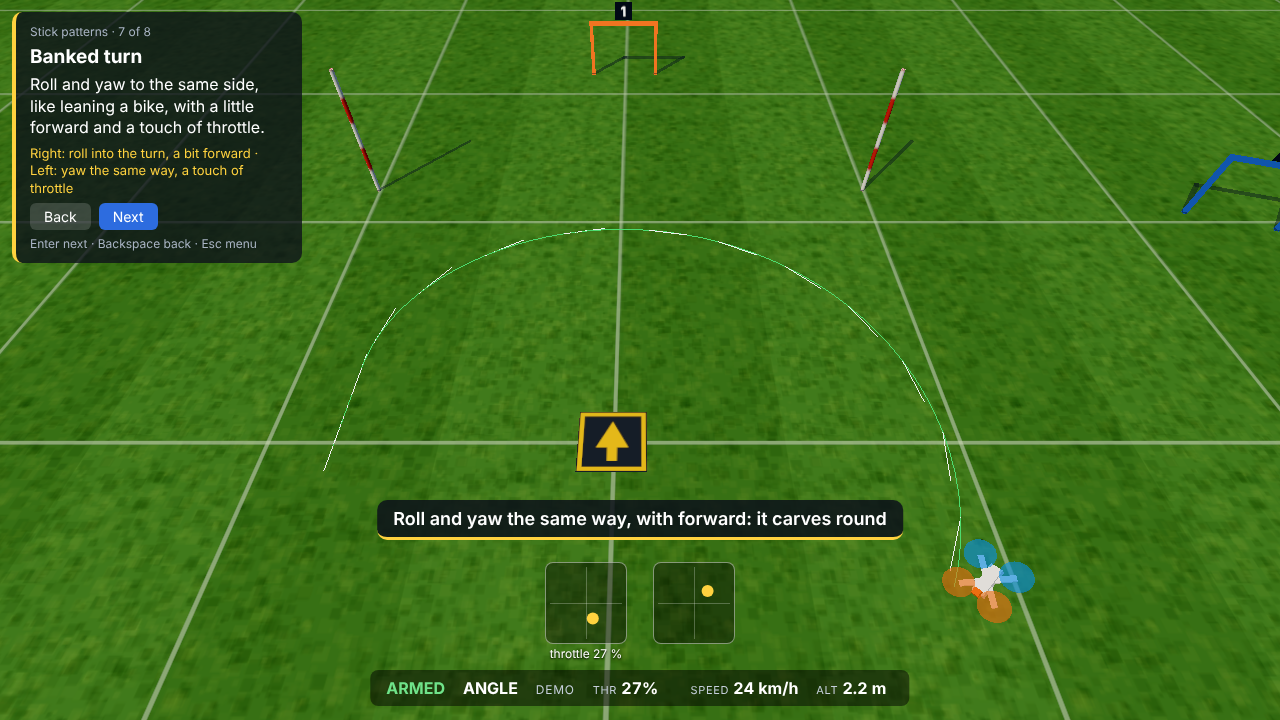
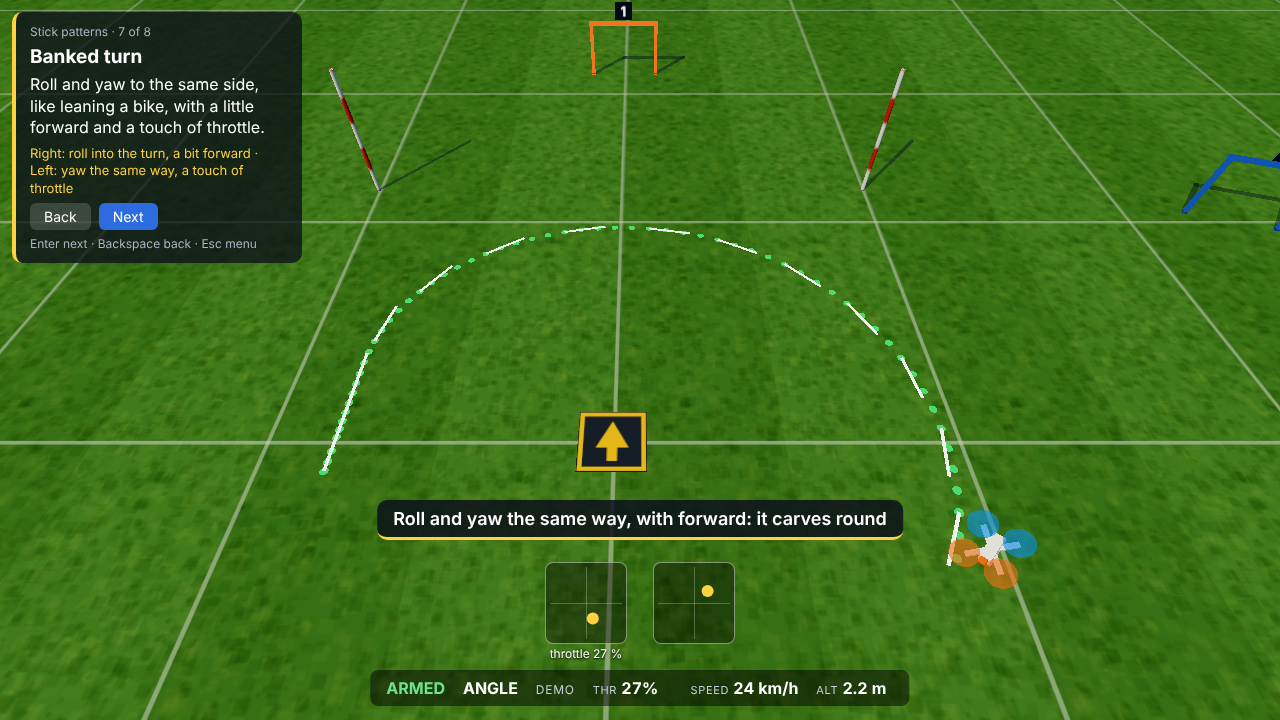
M10d: trail as flat dots and nose bars; M10d block passes (11 checks), proof/M10d/100 and 102

diff --git a/src/main.js b/src/main.js
@@ -489,39 +489,39 @@ scene.add(demoMarks);
 const tagsEl = document.getElementById('tags'), holdEl = document.getElementById('hold');
 const tagPool = [], _tv = new THREE.Vector3(), _tq = new THREE.Quaternion();
 let tagsShown = [];
-// Demo trail (def.trail): the ground track of the quad as a line, plus a short nose line every 0.4 s, so a still picture
+// Demo trail (def.trail): the ground track of the quad as a dotted line, plus a short nose line every 0.4 s, so a still picture
 // shows where it went and where it pointed (a banked turn carves; yaw without roll turns the nose while the track runs on).
-const TRAIL_N = 1500, NOSE_N = 60, NOSE_LEN = 1.6;
-const trailGeo = new THREE.BufferGeometry(), noseGeo = new THREE.BufferGeometry();
-trailGeo.setAttribute('position', new THREE.BufferAttribute(new Float32Array(TRAIL_N * 3), 3));
-noseGeo.setAttribute('position', new THREE.BufferAttribute(new Float32Array(NOSE_N * 6), 3));
-const trailMat = new THREE.LineBasicMaterial({ color: 0x5ee07a }), noseMat = new THREE.LineBasicMaterial({ color: 0xffffff });
-const trailLine = new THREE.Line(trailGeo, trailMat), noseLines = new THREE.LineSegments(noseGeo, noseMat);
+// Drawn as flat ground meshes (WebGL lines are 1 px wide whatever the setting, too thin to read).
+const TRAIL_N = 800, NOSE_N = 60, NOSE_LEN = 1.6, TRAIL_STEP = 0.25;
+const dotGeo = new THREE.CircleGeometry(0.13, 10).rotateX(-Math.PI / 2);
+const tickGeo = new THREE.BoxGeometry(0.1, 0.01, NOSE_LEN).translate(0, 0, -NOSE_LEN / 2);
+const trailMat = new THREE.MeshBasicMaterial({ color: 0x5ee07a }), noseMat = new THREE.MeshBasicMaterial({ color: 0xffffff });
+const trailLine = new THREE.InstancedMesh(dotGeo, trailMat, TRAIL_N), noseLines = new THREE.InstancedMesh(tickGeo, noseMat, NOSE_N);
 trailLine.frustumCulled = noseLines.frustumCulled = false; trailLine.visible = noseLines.visible = false;
+trailLine.count = noseLines.count = 0;
 scene.add(trailLine, noseLines);
-const trail = { n: 0, ticks: 0, lastT: -1 };
+const trail = { n: 0, ticks: 0, lastT: -1, last: null };
+const _tm = new THREE.Matrix4(), _ty = new THREE.Quaternion(), _tpos = new THREE.Vector3(), _one = new THREE.Vector3(1, 1, 1), _up = new THREE.Vector3(0, 1, 0);
 function resetTrail(run) {
-  trail.n = 0; trail.ticks = 0; trail.lastT = -1;
-  trailGeo.setDrawRange(0, 0); noseGeo.setDrawRange(0, 0);
+  trail.n = 0; trail.ticks = 0; trail.lastT = -1; trail.last = null;
+  trailLine.count = noseLines.count = 0;
   trailMat.color.setHex(run ? 0xff8a3d : 0x5ee07a);
 }
 function drawTrail(on) {
   trailLine.visible = noseLines.visible = !!on;
   if (!on) return;
-  const s = sim.state, y = 0.05;
-  const tp = trailGeo.attributes.position, np = noseGeo.attributes.position;
-  if (trail.n < TRAIL_N) {
-    const k = trail.n - 1;
-    if (k < 0 || Math.hypot(tp.getX(k) - s.pos[0], tp.getZ(k) - s.pos[2]) > 0.08) {
-      tp.setXYZ(trail.n++, s.pos[0], y, s.pos[2]); tp.needsUpdate = true; trailGeo.setDrawRange(0, trail.n);
-    }
+  const s = sim.state, y = 0.04;
+  if (trail.n < TRAIL_N && (!trail.last || Math.hypot(trail.last[0] - s.pos[0], trail.last[1] - s.pos[2]) > TRAIL_STEP)) {
+    trail.last = [s.pos[0], s.pos[2]];
+    _tm.makeTranslation(s.pos[0], y, s.pos[2]); trailLine.setMatrixAt(trail.n++, _tm);
+    trailLine.count = trail.n; trailLine.instanceMatrix.needsUpdate = true;
   }
   if (trail.ticks < NOSE_N && (trail.lastT < 0 || s.time - trail.lastT >= 0.4)) {
     trail.lastT = s.time;
-    const f = rotate(s.quat, [0, 0, -1]), l = Math.hypot(f[0], f[2]) || 1;
-    np.setXYZ(trail.ticks * 2, s.pos[0], y, s.pos[2]);
-    np.setXYZ(trail.ticks * 2 + 1, s.pos[0] + (f[0] / l) * NOSE_LEN, y, s.pos[2] + (f[2] / l) * NOSE_LEN);
-    trail.ticks++; np.needsUpdate = true; noseGeo.setDrawRange(0, trail.ticks * 2);
+    const f = rotate(s.quat, [0, 0, -1]);
+    _ty.setFromAxisAngle(_up, Math.atan2(-f[0], -f[2]));
+    _tm.compose(_tpos.set(s.pos[0], y + 0.01, s.pos[2]), _ty, _one); noseLines.setMatrixAt(trail.ticks++, _tm);
+    noseLines.count = trail.ticks; noseLines.instanceMatrix.needsUpdate = true;
   }
 }
 function drawDemoMarks(scale) {

diff --git a/PROGRESS.md b/PROGRESS.md
@@ -203,3 +203,4 @@ Live link: https://mickethegeek.github.io/fpv-sim/ (not checkable from the cloud
 - 2026-11-17 10:45 Zurich · M10d: yaw climb is real (Betaflight 4.2 tuning notes: big fast yaw drives one motor pair to 100 % and the other to zero; 'yaw jump'), sim keeps it, adds Betaflight's yaw pidsum limit (400 vs 500, cited): full yaw from hover now 4.2 m in 2 s, half 1.2 m, size UNSOURCED (docs/physics.md 'Yaw jump'); src/patterns.js with 8 stick patterns and their demos (whole, then one part forgotten: snapped yaw jumps, no throttle sinks, no roll slides); 79 unit tests · next: Stick patterns page in the menu, live throttle readout on the stick overlay, reminder in Try
 - 2026-11-17 10:52 Zurich · M10d: Stick patterns page in the menu (8 moves, each flown whole then with one part forgotten, captioned), live throttle under the left stick, pattern reminder in Try with a Settings toggle; M10d block 9 checks and M8 block pass in Chrome; screenshots proof/M10d/97 to 101 looked at · next: make the Banked turn demo readable, docs, full run, tick M10d (see 'M10d status' in the notes)
 - 2026-11-17 11:07 Zurich · M10d: Banked turn and Orbit demos draw the ground track (green whole, orange forgotten part) with a white nose line every 0.4 s; README Stick patterns section; docs/theory.md table of the pattern demos (measured); 79 unit tests; M10d block running in Chrome · next: screenshots, full run, tick M10d
+- 2026-11-17 11:12 Zurich · M10d: trail drawn as flat dots and nose bars (1 px lines were unreadable); M10d block passes in Chrome (11 checks), screenshots 100 and 102 looked at: green track carves with the nose along it, orange track runs on while the nose bars swing across it · next: full browser run, tick M10d

diff --git a/docs/theory.md b/docs/theory.md
@@ -52,7 +52,7 @@ The rates card also draws the rates curve: rotation speed against stick position
 | Banked turn | roll + yaw + forward: velocity within 9 deg of the nose on average | yaw without roll: velocity 60 deg off the nose on average (it slides) |
 | Up and down, Nose toward you, Orbit | one run each; same moves as the hover, nose-in and orbit cards | |
 
-The Banked turn and Orbit demos draw the ground track (green for the whole pattern, orange for the forgotten part) and a white nose line every 0.4 s, so a still picture shows the nose turning while the track runs straight. The stick overlay under the demo shows the demo's real sticks and the throttle value.
+The Banked turn and Orbit demos draw the ground track as dots (green for the whole pattern, orange for the forgotten part) and a white nose line every 0.4 s, so a still picture shows the nose turning while the track runs straight. The stick overlay under the demo shows the demo's real sticks and the throttle value.
 
 ## Helpers (M10)
 
